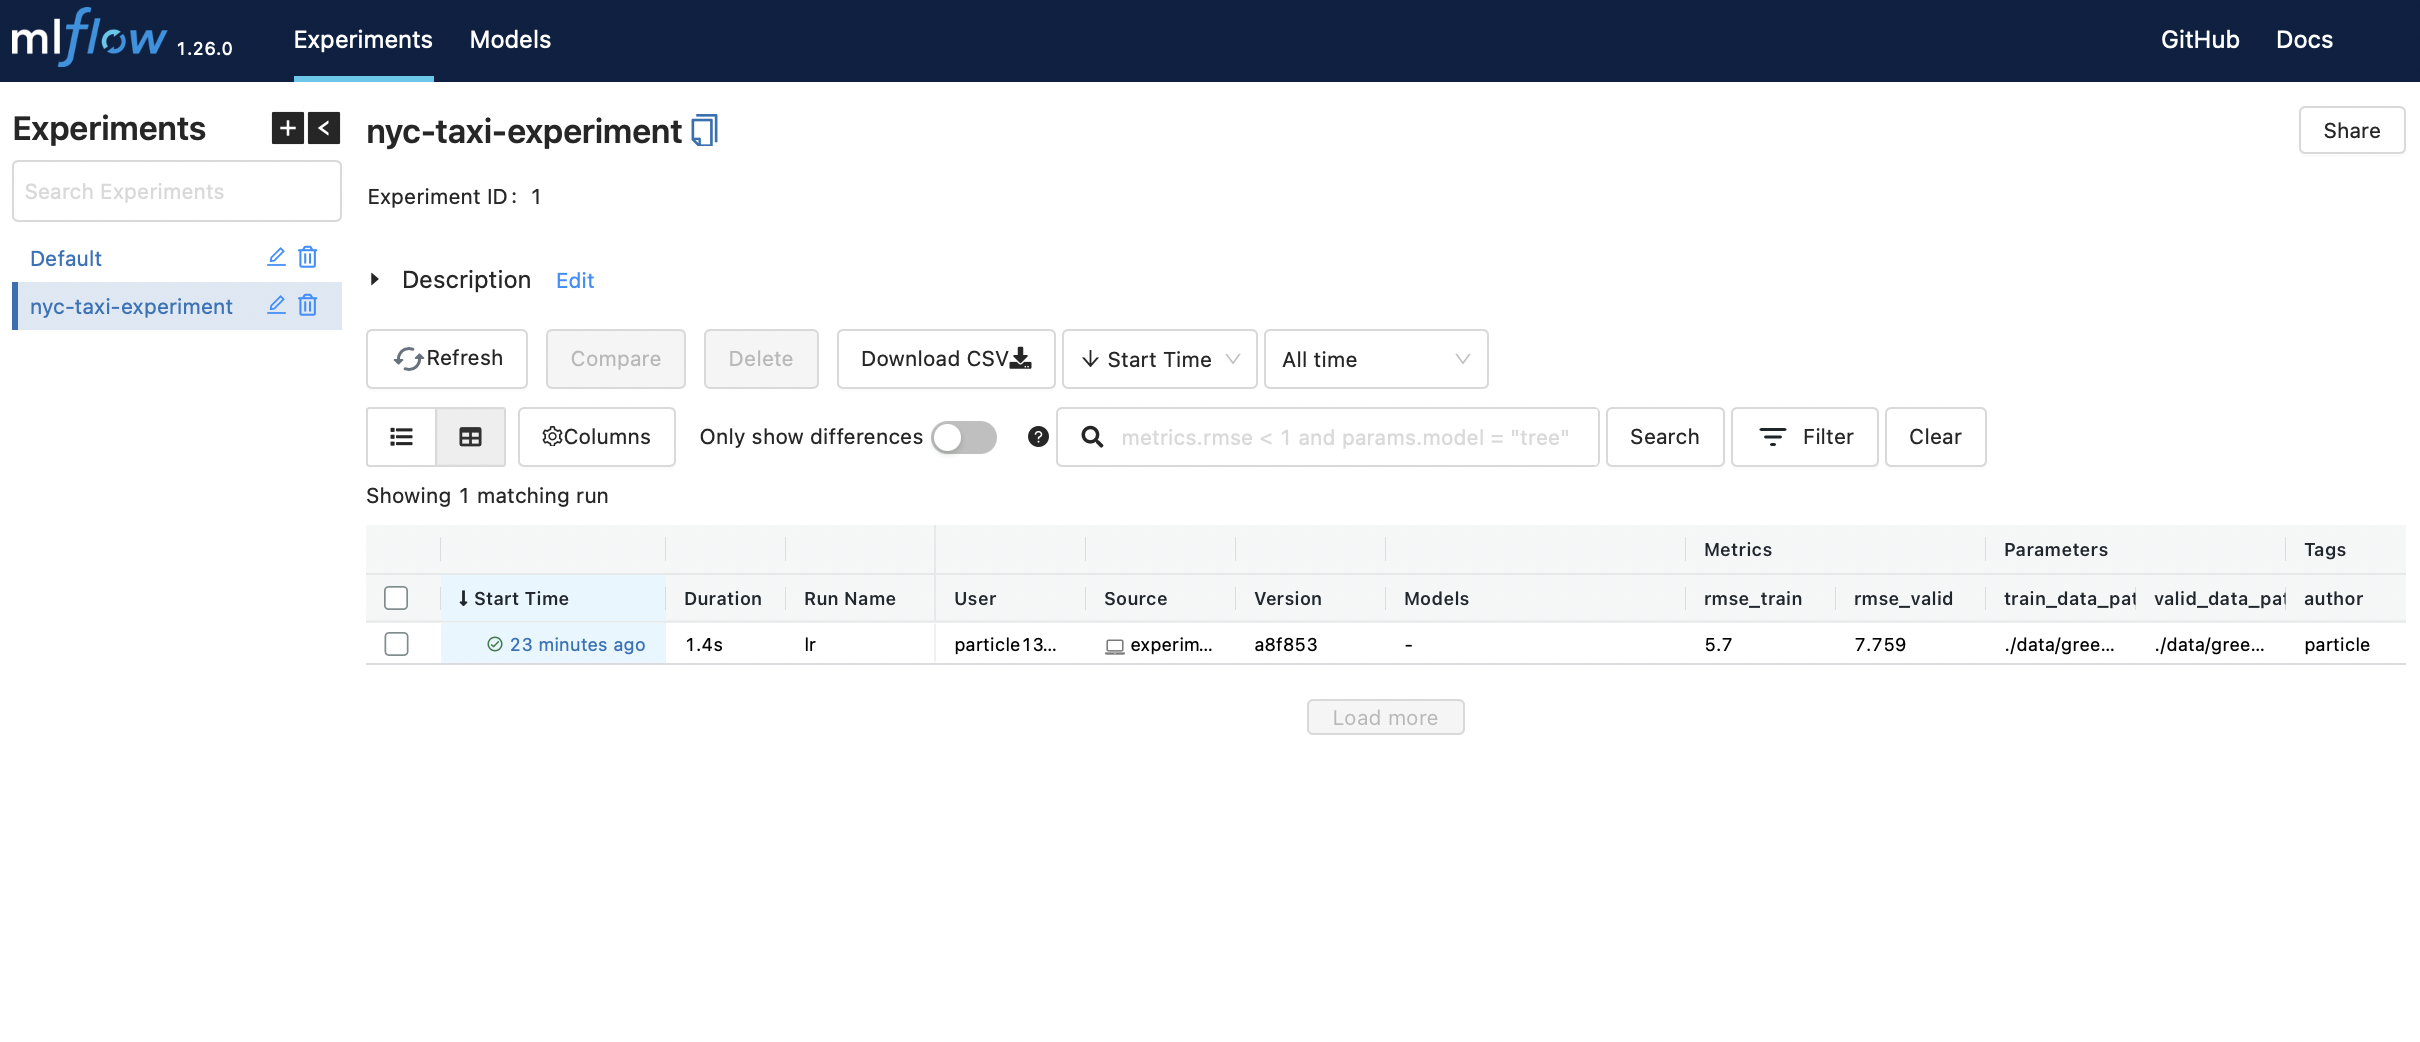
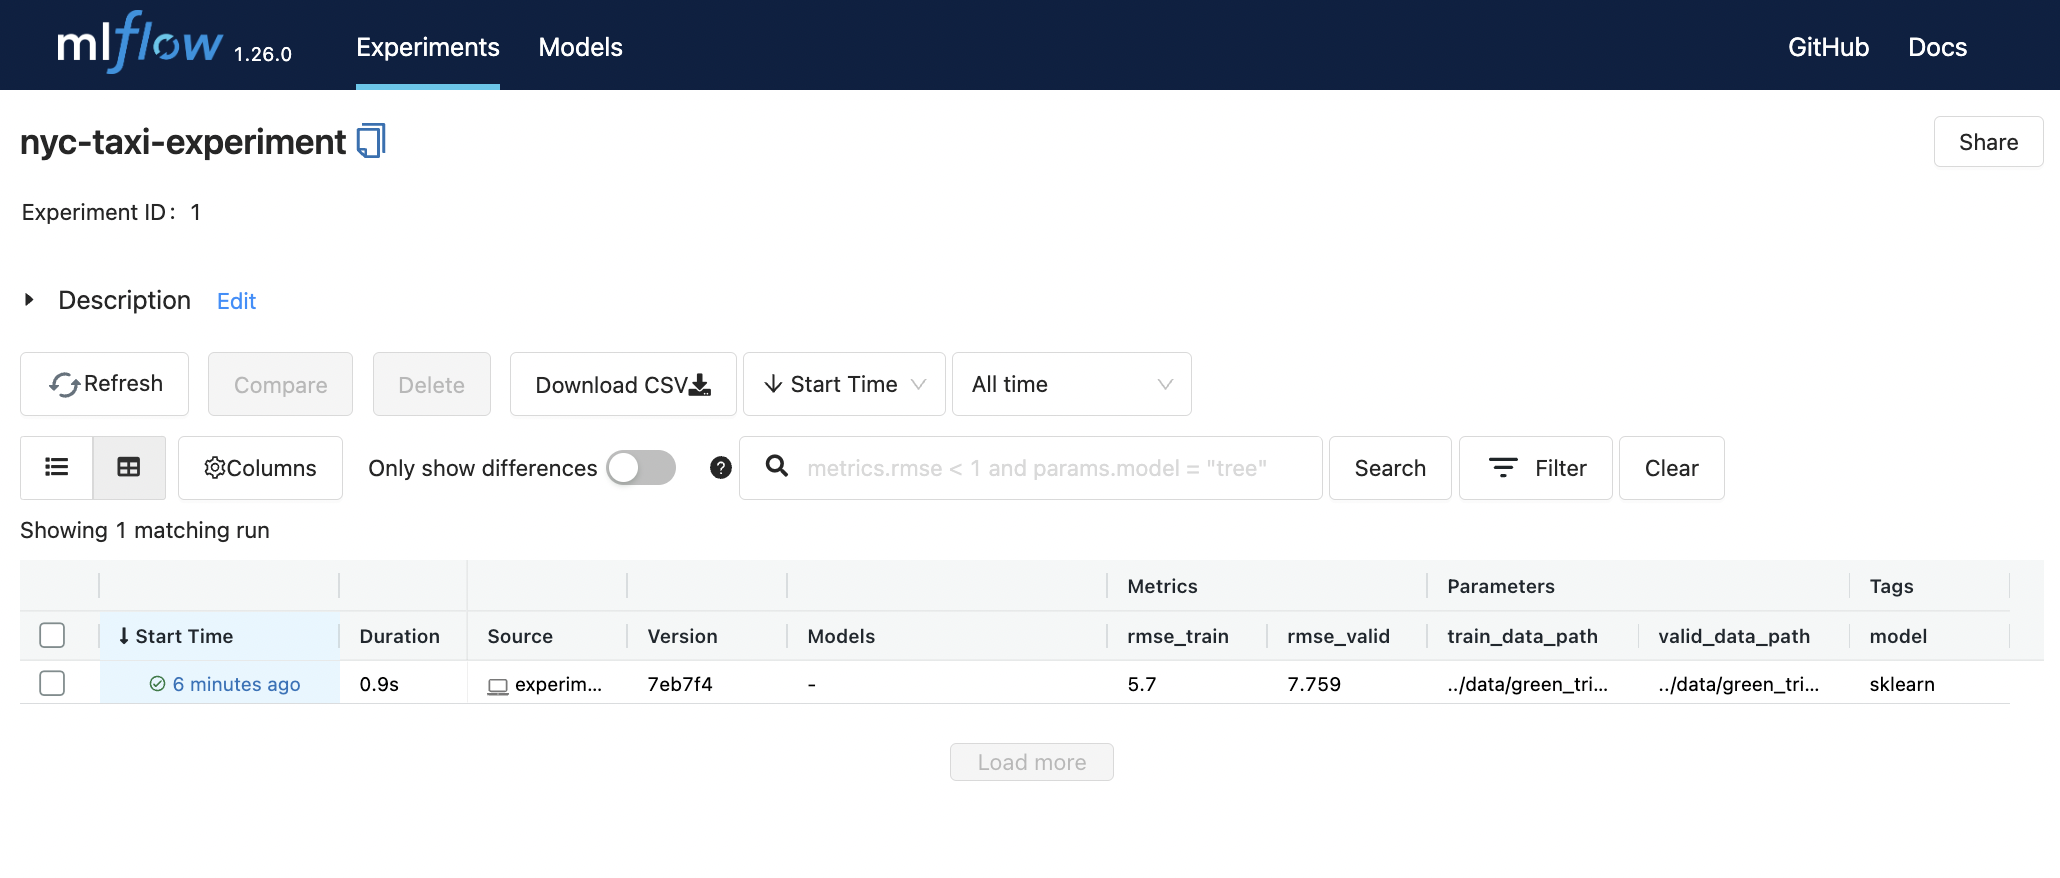
Create setup function.

diff --git a/docs/notebooks/mlops/2-mlflow/experiment_xgboost.py b/docs/notebooks/mlops/2-mlflow/experiment_xgboost.py
@@ -9,23 +9,27 @@ from functools import partial
 import mlflow
 
 
-# Set datasets
-train_data_path = '../data/green_tripdata_2021-01.parquet'
-valid_data_path = '../data/green_tripdata_2021-02.parquet'
-X_train, y_train, X_valid, y_valid = set_datasets(train_data_path, valid_data_path)
+def setup(autolog):
 
-xgb_train = xgb.DMatrix(X_train, label=y_train)
-xgb_valid = xgb.DMatrix(X_valid, label=y_valid)
+    global xgb_train, xgb_valid, X_valid, y_valid
+    global train_data_path, valid_data_path
 
-# Set experiment
-mlflow.set_tracking_uri("sqlite:///mlflow.db")
-mlflow.set_experiment("nyc-taxi-experiment")
+    # Set datasets
+    train_data_path = '../data/green_tripdata_2021-01.parquet'
+    valid_data_path = '../data/green_tripdata_2021-02.parquet'
+    X_train, y_train, X_valid, y_valid = set_datasets(train_data_path, valid_data_path)
+
+    xgb_train = xgb.DMatrix(X_train, label=y_train)
+    xgb_valid = xgb.DMatrix(X_valid, label=y_valid)
+
+    # Set experiment
+    mlflow.set_tracking_uri("sqlite:///mlflow.db")
+    mlflow.set_experiment("nyc-taxi-experiment")
+    mlflow.xgboost.autolog(disable=not(autolog))
 
 
 def objective(params, autolog):
     """Compute validation RMSE (one trial = one run)."""
-    
-    mlflow.xgboost.autolog(disable=not(autolog))
 
     with mlflow.start_run():
         
@@ -90,11 +94,14 @@ def main(autolog, num_runs):
 if __name__ == "__main__":
     
     import argparse
-    
+
     parser = argparse.ArgumentParser()
     parser.add_argument("--autolog", choices=["False", "True"])
     parser.add_argument("--num_runs", default=1, type=int)
     
     args = parser.parse_args()
     
-    main(autolog=(args.autolog == 'True'), num_runs=args.num_runs)
+    # Experiment runs
+    autolog = (args.autolog == 'True')
+    setup(autolog=autolog)
+    main(autolog=autolog, num_runs=args.num_runs)

diff --git a/docs/notebooks/mlops/2-mlflow/experiment_sklearn.py b/docs/notebooks/mlops/2-mlflow/experiment_sklearn.py
@@ -7,15 +7,20 @@ from sklearn.metrics import mean_squared_error
 import mlflow
 
 
-# Set datasets
-train_data_path = '../data/green_tripdata_2021-01.parquet'
-valid_data_path = '../data/green_tripdata_2021-02.parquet'
-X_train, y_train, X_valid, y_valid = set_datasets(train_data_path, valid_data_path)
+def setup():
 
-# Set experiment
-mlflow.set_tracking_uri("sqlite:///mlflow.db")
-mlflow.set_experiment("nyc-taxi-experiment")
-mlflow.sklearn.autolog()
+    global X_train, y_train, X_valid, y_valid
+    global train_data_path, valid_data_path
+
+    # Set datasets
+    train_data_path = '../data/green_tripdata_2021-01.parquet'
+    valid_data_path = '../data/green_tripdata_2021-02.parquet'
+    X_train, y_train, X_valid, y_valid = set_datasets(train_data_path, valid_data_path)
+
+    # Set experiment
+    mlflow.set_tracking_uri("sqlite:///mlflow.db")
+    mlflow.set_experiment("nyc-taxi-experiment")
+    mlflow.sklearn.autolog()
 
 
 def run(model_class):
@@ -57,4 +62,5 @@ def main():
 
 
 if __name__ == "__main__":
+    setup()
     main()

diff --git a/docs/notebooks/mlops/2-mlflow/experiment_lr.py b/docs/notebooks/mlops/2-mlflow/experiment_lr.py
@@ -6,14 +6,19 @@ from sklearn.metrics import mean_squared_error
 import mlflow
 
 
-# Set datasets
-train_data_path = '../data/green_tripdata_2021-01.parquet'
-valid_data_path = '../data/green_tripdata_2021-02.parquet'
-X_train, y_train, X_valid, y_valid = set_datasets(train_data_path, valid_data_path)
+def setup():
 
-# Set experiment
-mlflow.set_tracking_uri("sqlite:///mlflow.db")
-mlflow.set_experiment("nyc-taxi-experiment")
+    global X_train, y_train, X_valid, y_valid
+    global train_data_path, valid_data_path
+
+    # Set datasets
+    train_data_path = '../data/green_tripdata_2021-01.parquet'
+    valid_data_path = '../data/green_tripdata_2021-02.parquet'
+    X_train, y_train, X_valid, y_valid = set_datasets(train_data_path, valid_data_path)
+
+    # Set experiment
+    mlflow.set_tracking_uri("sqlite:///mlflow.db")
+    mlflow.set_experiment("nyc-taxi-experiment")
 
 
 def run():
@@ -46,6 +51,7 @@ def run():
 
 
 def main():
+    setup()
     run()
 
 
